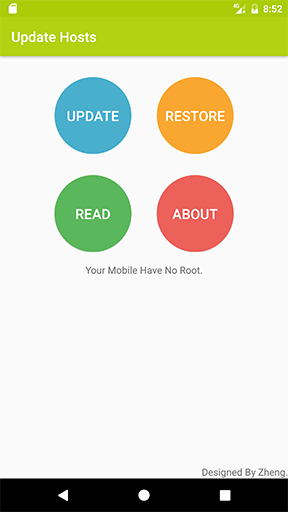
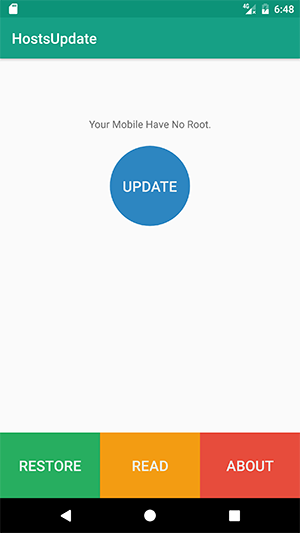
Change the User Interface

diff --git a/app/src/main/java/com/zheng/hostsupdate/MainActivity.java b/app/src/main/java/com/zheng/hostsupdate/MainActivity.java
@@ -70,7 +70,7 @@ public class MainActivity extends AppCompatActivity {
                             e.printStackTrace();
                         }
                         mHandler.post( () -> {
-                            Toast.makeText(getContext(), R.string.get_last_host_tips, Toast.LENGTH_SHORT).show();
+                            tipsView.setText(getString(R.string.get_last_host_tips));
                             dismissDialog();
                         });
                     });
@@ -79,7 +79,7 @@ public class MainActivity extends AppCompatActivity {
                 @Override
                 public void error() {
                     mHandler.post( () -> {
-                        Toast.makeText(getContext(), R.string.network_error, Toast.LENGTH_SHORT).show();
+                        tipsView.setText(getString(R.string.network_error));
                         dismissDialog();
                     });
                 }
@@ -89,7 +89,7 @@ public class MainActivity extends AppCompatActivity {
         //Restore按钮设置监听
         cleanHostBtn.setOnClickListener(view ->{
             if (!isMobileRoot) {
-                Toast.makeText(getContext(), R.string.get_root_fail, Toast.LENGTH_SHORT).show();
+                tipsView.setText(getString(R.string.get_root_fail));
                 return;
             }
             AsyncTask.execute( () -> {
@@ -103,7 +103,7 @@ public class MainActivity extends AppCompatActivity {
                 }
                 RootTools.copyFile(getVoidHostPath(), "/system/etc/hosts", true, false);
                 mHandler.post( () ->
-                        Toast.makeText(getContext(), R.string.huifu_host_tips, Toast.LENGTH_SHORT).show()
+                        tipsView.setText(getString(R.string.huifu_host_tips))
                 );
             });
         });
